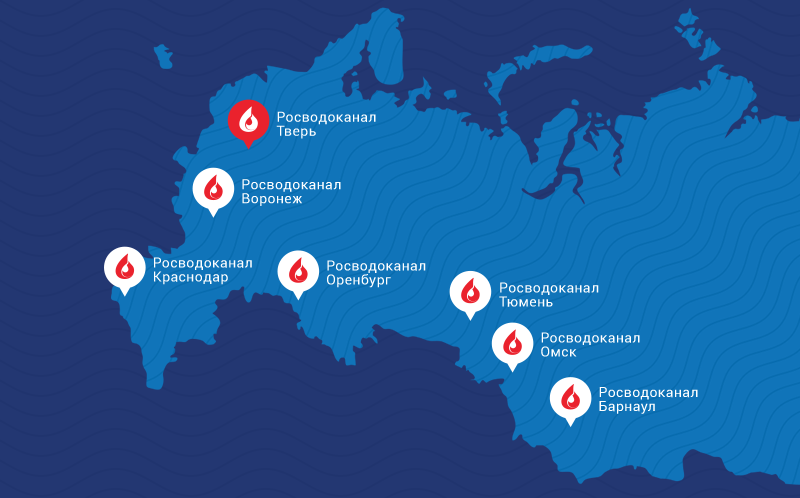
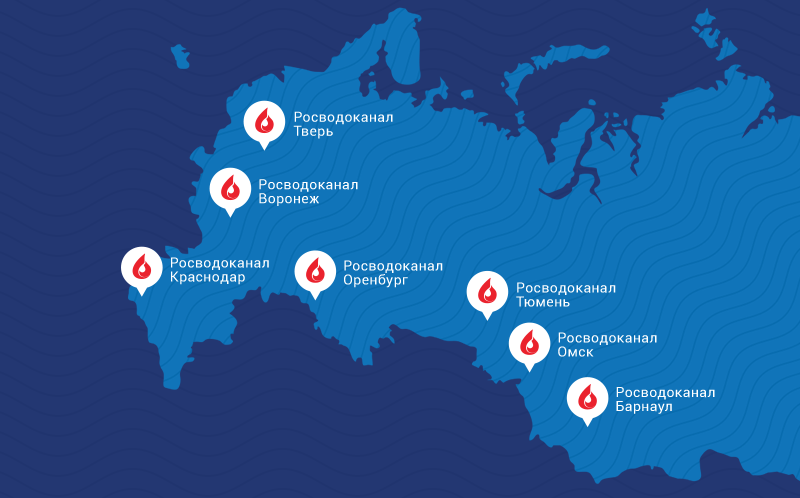
Исправление замечаний

Changed region(s): [[0.125, 0.0, 1.0, 0.994], [0.1875, 0.0904, 0.25, 0.1506]]

diff --git a/src/js/app.js b/src/js/app.js
@@ -326,6 +326,92 @@
           $('.background-map__city_6').removeClass('background-map__city_active');
         });
 
+       
+
+        $('.js-tver').click(function() {
+          $('.js-item-tver').toggleClass('is-active');
+          $('.js-content-tver').toggleClass('display-block');
+          $('html, body').animate({
+              scrollTop: $(".js-item-tver").offset().top
+          }, 1200);
+        });
+
+        $('.js-item-tver').click(function() {
+          $('.js-content-tver').removeClass('display-block');
+        });
+
+        $('.js-voronezh').click(function() {
+          $('.js-item-voronezh').toggleClass('is-active');
+          $('.js-content-voronezh').toggleClass('display-block');
+          $('html, body').animate({
+              scrollTop: $(".js-item-voronezh").offset().top
+          }, 1200);
+        });
+
+        $('.js-item-voronezh').click(function() {
+          $('.js-content-voronezh').removeClass('display-block');
+        });
+
+         $('.js-krasnodar').click(function() {
+          $('.js-item-krasnodar').toggleClass('is-active');
+          $('.js-content-krasnodar').toggleClass('display-block');
+          $('html, body').animate({
+              scrollTop: $(".js-item-krasnodar").offset().top
+          }, 1200);
+        });
+
+        $('.js-item-krasnodar').click(function() {
+          $('.js-content-krasnodar').removeClass('display-block');
+        });
+
+         $('.js-orenburg').click(function() {
+          $('.js-item-orenburg').toggleClass('is-active');
+          $('.js-content-orenburg').toggleClass('display-block');
+          $('html, body').animate({
+              scrollTop: $(".js-item-orenburg").offset().top
+          }, 1200);
+        });
+
+        $('.js-item-orenburg').click(function() {
+          $('.js-content-orenburg').removeClass('display-block');
+        });
+
+        $('.js-tyumen').click(function() {
+          $('.js-item-tyumen').toggleClass('is-active');
+          $('.js-content-tyumen').toggleClass('display-block');
+          $('html, body').animate({
+              scrollTop: $(".js-item-tyumen").offset().top
+          }, 1200);
+        });
+
+        $('.js-item-tyumen').click(function() {
+          $('.js-content-tyumen').removeClass('display-block');
+        });
+
+        $('.js-omsk').click(function() {
+          $('.js-item-omsk').toggleClass('is-active');
+          $('.js-content-omsk').toggleClass('display-block');
+          $('html, body').animate({
+              scrollTop: $(".js-item-omsk").offset().top
+          }, 1200);
+        });
+
+        $('.js-item-omsk').click(function() {
+          $('.js-content-omsk').removeClass('display-block');
+        });
+
+        $('.js-barnaul').click(function() {
+          $('.js-item-barnaul').toggleClass('is-active');
+          $('.js-content-barnaul').toggleClass('display-block');
+          $('html, body').animate({
+              scrollTop: $(".js-item-barnaul").offset().top
+          }, 1200);
+        });
+
+        $('.js-item-barnaul').click(function() {
+          $('.js-content-barnaul').removeClass('display-block');
+        });
+
 
         // Чекбокс согласия на обработку персональных данных
 

diff --git a/src/scss/_background-map.scss b/src/scss/_background-map.scss
@@ -2,6 +2,7 @@
     background: url(../i/map-3.png) no-repeat;
     height: rem-calc(498);
     position: relative;
+    background-size: cover;
 }
 
 .background-map__city {
@@ -53,7 +54,9 @@
 .background-map__span {
     position: absolute;
     color: #fff;
-    line-height: rem-calc(14);   
+    line-height: rem-calc(14);
+    margin-left: 3.6rem;
+    margin-top: 0.8rem;
 }
 
 .background-map__span_1 {
@@ -107,7 +110,6 @@
 
     .background-map {
         background: url(../i/map-5.png) no-repeat;
-        background-size: 100%;
         height: rem-calc(136);
     }
 
